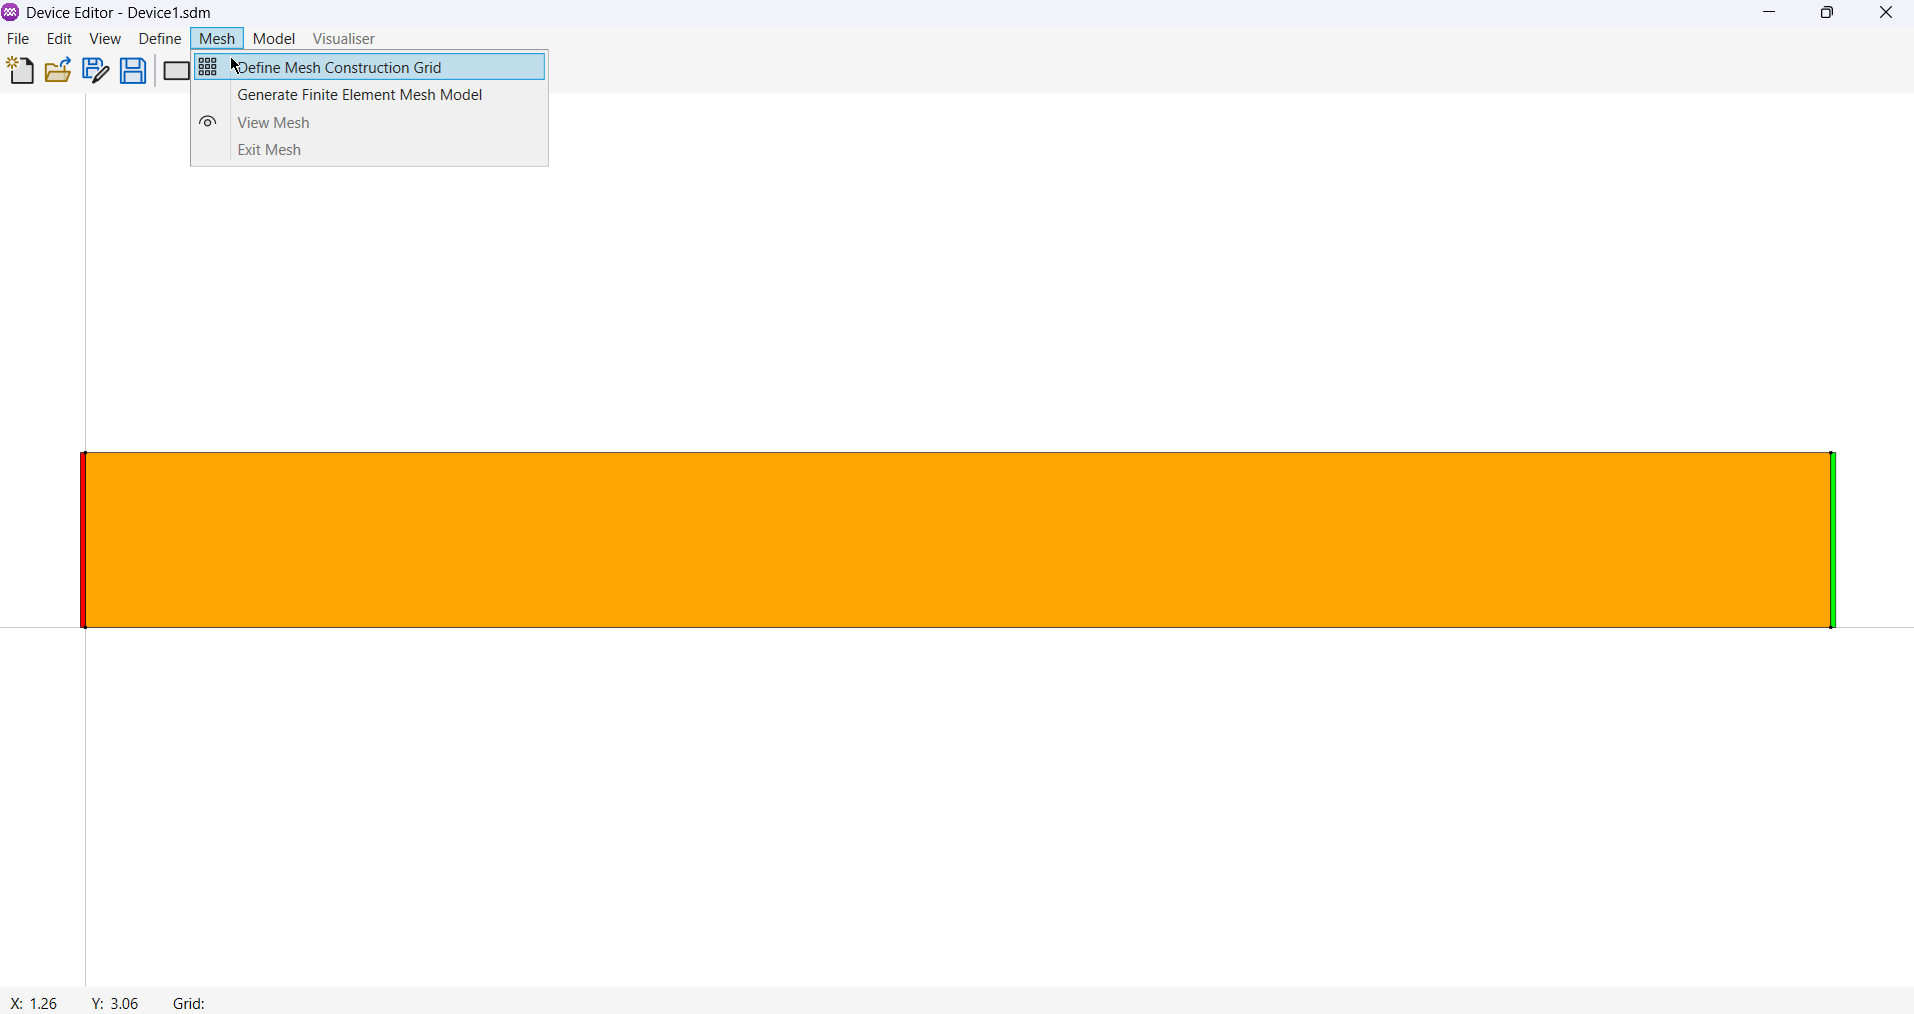
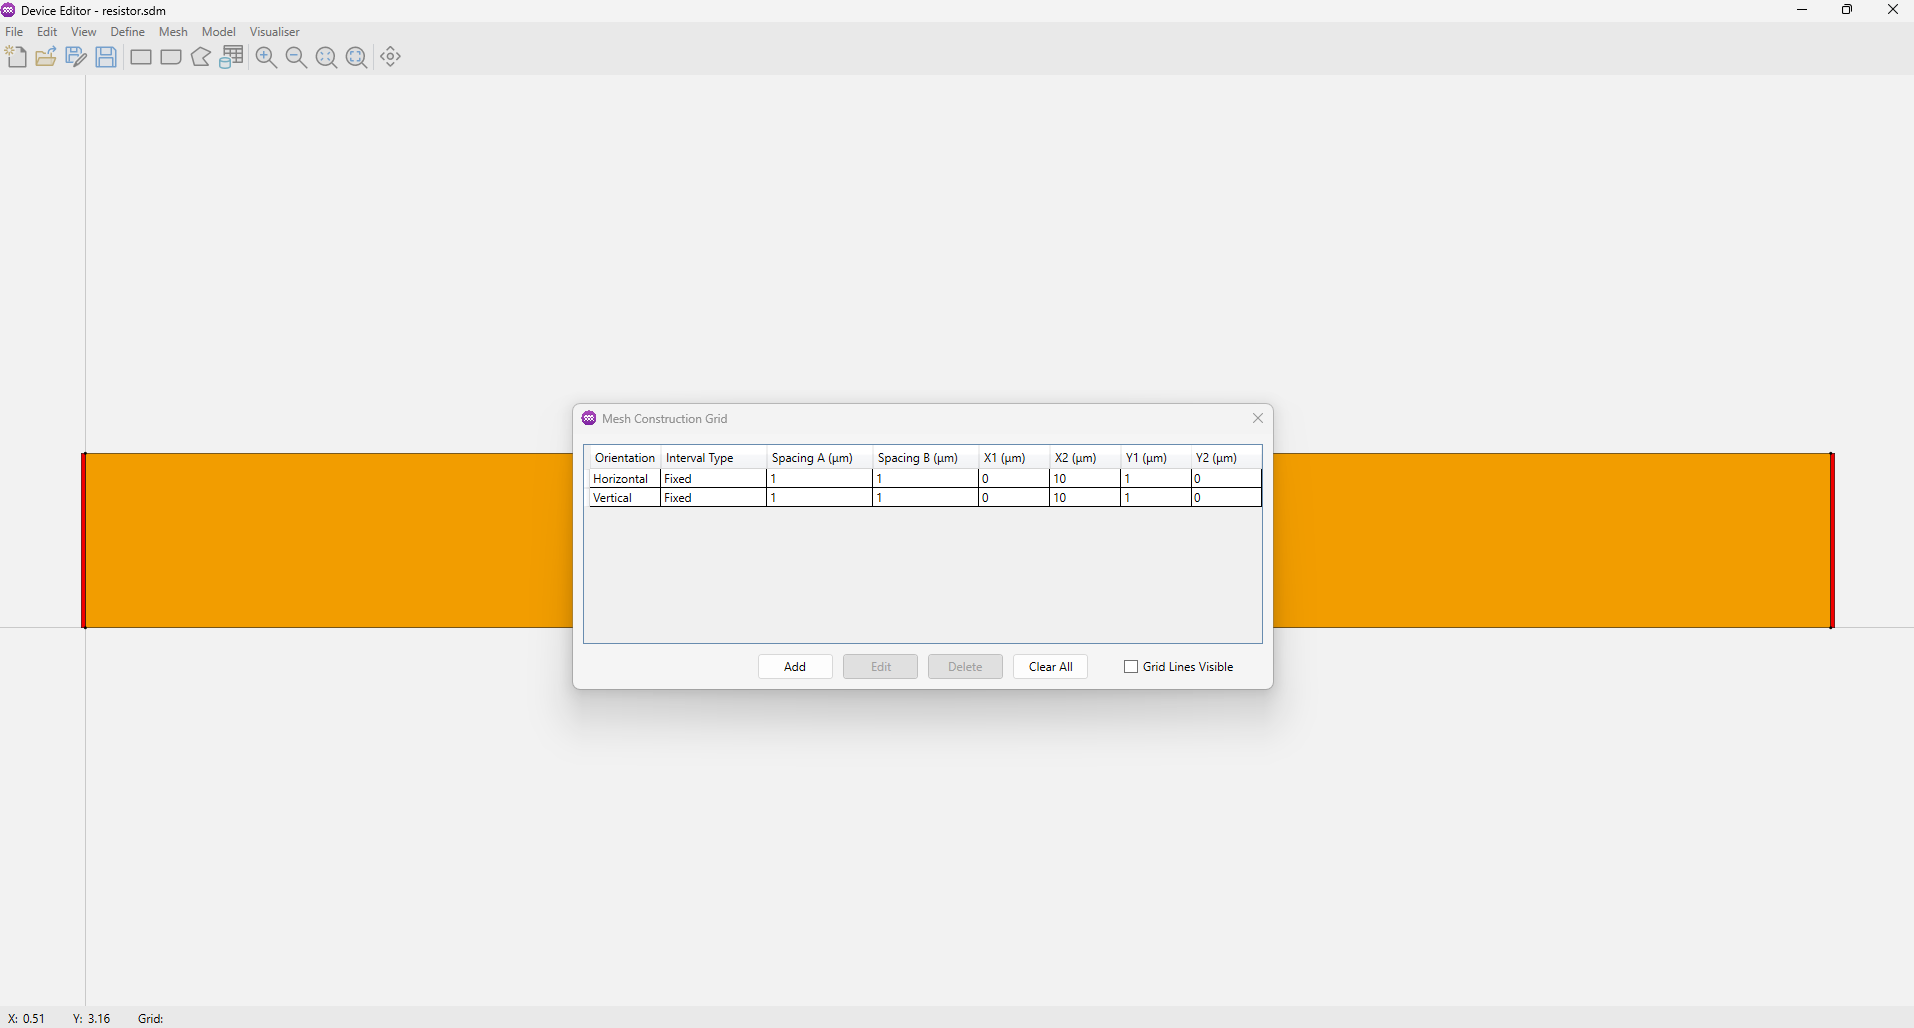
Updated resistor back to where it should be.

diff --git a/docs/examples/resistor.md b/docs/examples/resistor.md
@@ -1,0 +1,182 @@
+---
+sidebar_position: 1
+---
+
+import useBaseUrl from '@docusaurus/useBaseUrl';
+
+# Resistor
+
+## Overview
+In this example project, a simple uniformly doped n-type silicon resistor is modelled and simulated to demonstrate the basic workflow of semiconductor device simulation. An analytical resistance is calculated from fundamental semiconductor relations based on geometry, doping concentration, and mobility. The simulation includes geometry definition, doping profile assignment, physical model selection, contact specification, and bias application. The extracted current is used to compute the simulated resistance, and the result is compared with the analytical expectation. This example serves both as a simple validation case for the Aquarius TCAD environment and as an instructional reference for users implementing basic electrical simulations of passive devices.
+
+## Parameters
+
+<p align="center">
+  <img src={useBaseUrl('img/examples/resistor/01.png')} width="600"/>
+</p>
+
+
+| Parameter             | Symbol       | Value               | Unit            | Description                              |
+|-----------------------|--------------|---------------------|-----------------|------------------------------------------|
+| Length                | $L$          | $1 \times 10^{-3}$  | cm              | Distance between the two contacts.       |
+| Depth                 | $D$          | $1 \times 10^{-4}$  | cm              | Depth of the resistor (Scaling Factor)   |
+| Height                | $H$          | $1 \times 10^{-4}$  | cm              | Vertical thickness of the resistor.      |
+| Doping Concentration  | $N_D$        | $1 \times 10^{-16}$ | cm$^{-3}$       | Uniform donor concentration.             |
+| Carrier Mobility      | $\mu_n$      | 1000                | cm$^{2}$ /V·s   | Nominal electron mobility (constant).    |
+
+## Analytical Result
+
+### Resistance Formula
+The analytical resistance of a uniformly doped semiconductor resistor can be derived from Ohm’s law and the definition of resistivity in terms of semiconductor transport properties. The total resistance $R$ between two terminals of a rectangular resistor is given by:
+
+$$
+R = \rho \cdot \frac{L}{A}
+$$
+
+Where:  
+- $R$ = resistance (Ω)  
+- $\rho$ = resistivity of doped silicon (Ω·cm)  
+- $L$ = length of the resistor (cm)
+- $A$ = cross-sectional area = Height × Depth (cm²)
+
+In a doped semiconductor, the resistivity $\rho$ is related to the doping concentration and carrier mobility as follows:
+$$
+\rho = \frac{1}{q \cdot \mu \cdot N}
+$$
+
+Where:  
+- $q$ = elementary charge ($\approx$ $1.6 \times 10^{-19}$ C)
+- $\mu$ = carrier mobility (cm²/V·s) 
+- $N$ = doping concentration (cm⁻³)
+
+Combining the two equations, the resistance becomes:
+$$
+R = \frac{L}{q \cdot \mu \cdot N \cdot A}
+$$
+
+
+### Example Calculation
+Using the parameter values defined above:
+$$
+A = H \cdot D = 10^{-4} \cdot 10^{-4} = 10^{-8} cm^{2}
+$$
+
+Now substitute into the resistance formula:
+$$
+R = \frac{1.0 \times 10^{-3}}{(1.6 \times 10^{-19}) \cdot 1000 \cdot (1.0 \times 10^{16}) \cdot (1.0 \times 10^{-8})} = \underline{\mathbf{62.5\text{k}\Omega}}
+$$
+
+## Simulation Result
+
+### Creating the Device Model
+
+To create a resistor device model in Aquarius, follow the steps below:
+
+#### 1. Launch the Device Editor
+
+- Open the Aquarius application.
+- On the **Start Page**, three options are available:
+  1. New Device Model
+  2. New Simulation
+  3. Open Results Visualiser
+- Click **New Device Model** (the first option).
+- The Device Editor will open with an empty workspace.
+
+<p align="center">
+  <img src={useBaseUrl('img/examples/resistor/02.png')} />
+</p>
+
+#### 2. Define the Device Geometry
+
+<p align="center">
+  <img src={useBaseUrl('img/examples/resistor/04.png')} />
+</p>
+
+:::tip
+For more detailed instructions on **defining regions**, click [here](../device-editor/regions#usage-instructions).
+:::
+
+- After drawing the rectangle, the **Exact Coordinates** dialog will open automatically:
+  - Set the First Vertex to `(0, 0)`.
+  - Set the Second Vertex to `(10, 1)`.
+  - Click `OK` to confirm.
+
+<p align="center">
+  <img src={useBaseUrl('img/examples/resistor/05.png')} />
+</p>
+
+- The **Region Properties** dialog will then open:
+  - Set the **Region Material** to `Silicon (Si)`; 
+    - Note: the default material properties can be used, so the carrier mobility of `1000` does not need to be changed.
+  - Set the **Donor Doping** to `1E+16`.
+  - Click `OK` to confirm.
+
+<p align="center">
+  <img src={useBaseUrl('img/examples/resistor/06.png')} />
+</p>
+
+#### 3. Define the Device Contacts
+
+With the device geometry and material properties defined, the next step is to **specify electrical contacts** to allow the device to be connected to a circuit for simulation. In this example, the left and right edges of the region will be used to define contacts `A` and `B`, respectively, with the default contact parameters applied.
+
+<p align="center">
+  <img src={useBaseUrl('img/examples/resistor/07.png')} />
+</p>
+
+:::tip
+For more detailed instructions on defining contacts, click [here](../device-editor/contacts#usage-instructions).
+:::
+
+#### 4. Define the Finite Element Mesh
+
+For a simple resistor with uniform material properties and no junctions, a **coarse mesh** is sufficient. It provides a good balance between **simulation accuracy** and **computational efficiency**, avoiding unnecessary refinement that would increase computation time without significant benefit.
+
+Define the **Mesh Construction Grid:**
+<p align="center">
+  <img src={useBaseUrl('img/examples/resistor/08.png')} />
+</p>
+
+  - Set the **Orientation** to `Vertical`.
+  - Set the **Interval** to `Fixed`.
+  - Set the **Coordinates** to:
+    - `X1 = 0`
+    - `Y1 = 0`
+    - `X2 = 10`
+    - `Y2 = 1`
+  - Set the **Spacing Between Lines** to `1.0` microns.
+
+:::tip
+For more detailed instructions on **defining the mesh construction grid**, click [here](../device-editor/finite-element-mesh/meshing-grid.md#usage-instructions).
+:::
+
+<p align="center">
+  <img src={useBaseUrl('img/examples/resistor/9.png')} />
+</p>
+
+Generate the **Finite Element Mesh:**
+- In the Menu Bar, select `Mesh` → `Generate Finite Element Mesh Model`. The Mesh Generation dialog will open.
+- No refinement is required for this model, so click `OK` to generate the mesh with default settings.
+
+:::tip
+For more detailed instructions on **generating the finite element mesh**, click [here](../device-editor/finite-element-mesh/mesh-generation.md#usage-instructions).
+:::
+
+<p align="center">
+  <img src={useBaseUrl('img/examples/resistor/10.png')} />
+</p>
+
+#### 5. Save the Device Model
+
+- In the Menu Bar, select `File` → `Save As...`. The Save dialog will open.
+- Navigate to the folder you wish to save the device in.
+- Specify the filename (e.g. Resistor.sol).
+- Click `Save` to store the device model.
+
+<p align="center">
+  <img src={useBaseUrl('img/examples/resistor/11.png')} />
+</p>
+
+
+### Simulation Setup
+
+### Results

diff --git a/docs/device-editor/finite-element-mesh/meshing-grid.md b/docs/device-editor/finite-element-mesh/meshing-grid.md
@@ -30,13 +30,17 @@ To define a rectangular meshing grid:
 3. In the dialog box, define the properties of the grid line group.
 4. Specify the rectangular area using X and Y coordinates, for example, (0,0) to (5,5).
 5. Set the spacing between the grid lines.
-6. Click `OK` to generate the collection of grid lines over the defined area.
+6. The grid lines will appear overlaid on the device structure.
+7. Click `OK` to generate the collection of grid lines over the defined area.
+
 
 <p align="center">
   <img src={useBaseUrl('img/device-editor/finite-element-mesh/meshing-grid/03.png')} width="800"/>
 </p>
 
 Repeat this process for both the horizontal (X) and vertical (Y) directions until a suitable meshing grid of intersecting lines is achieved.
+
+**Close** the Mesh Construction Grid window by clicking the **X** in the top-right corner.
 
 ## Parameters
 Each collection of grid lines is defined by the following parameters.
